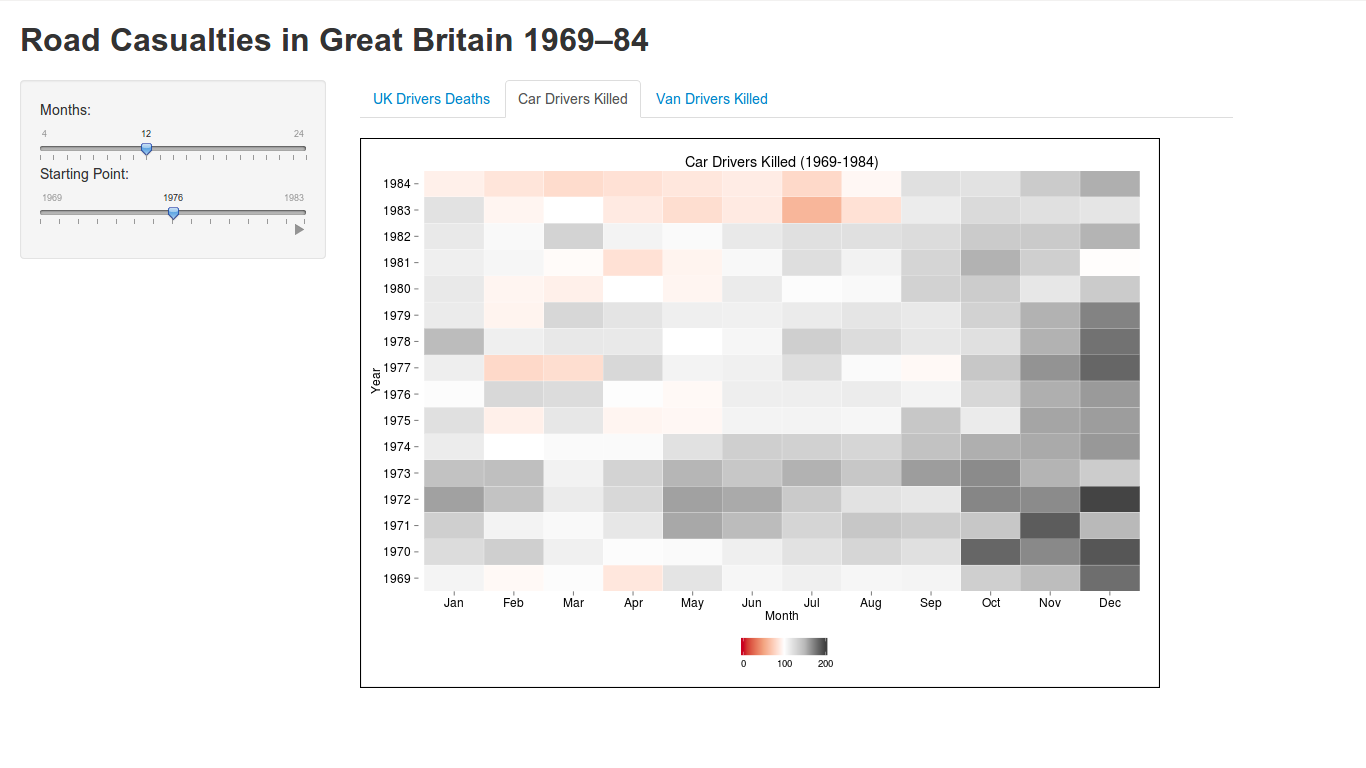
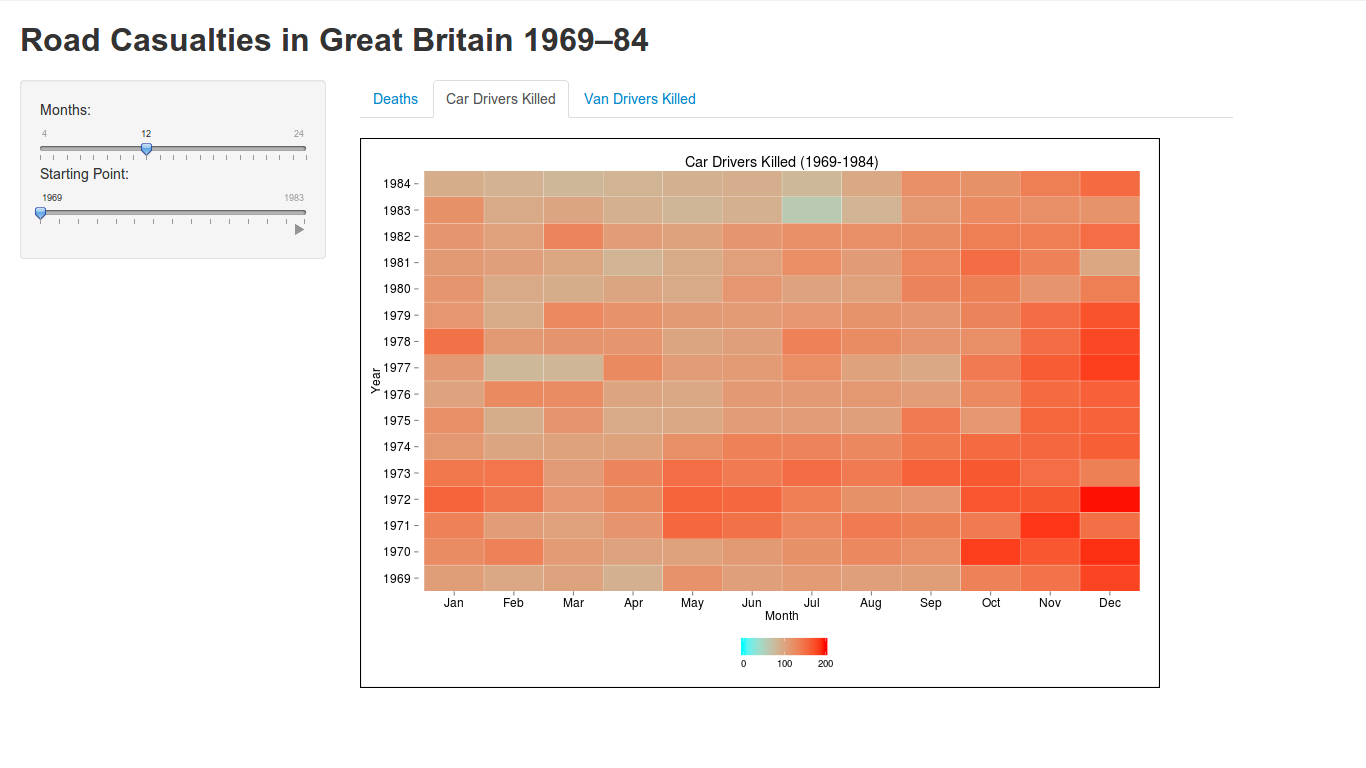
Final touches and a much better image for car drivers killed

diff --git a/homework5/README.md b/homework5/README.md
@@ -8,7 +8,6 @@ Homework [5]: Time Series Visualization
 ## Instructions ##
 The following packages must be installed prior to running this code:
 ```
-
 library(reshape) 
 library(scales) 
 library(ggplot2)
@@ -23,26 +22,27 @@ shiny::runGitHub('msan622', 'deekshachugh', subdir = 'homework5')
 ## Discussion ##
 
 ###Deaths###
-Here is the screenshot:
+
 ![IMAGE](Overview.png)
 
-The above plot shows the number of total driver deaths, front-seat passengers killed or seriously injured and rear-seat passengers killed or seriously injured. The plot shows the decline in number of deaths of front seat passengers after the law was introduced whereas the it has not much effect on back seat passengers.
+The above plot shows the number of total driver deaths, front-seat passengers killed or seriously injured, and rear-seat passengers killed or seriously injured. The plot shows the sharp decline in number of deaths of front seat passengers after the law was introduced in 1983; however there is no effect on the number of deaths of back seat passengers.
 
-The plot has two components. The upper part of the graph is the zoom in version of the overview plot below. The overview plot is a multiline plot showing the number of deaths. It also has an arrow which points to the time period when the seat belt law in UK was introduced. I changed the axes color to black and increased its size to increase readibility. The legend of the plot is moved on to the top of the plot to save space.  
-
+The plot has two components. The upper part of the graph is the zoomed in version of the overview plot under it. The overview plot is a multiline plot showing the number of deaths. It also has an arrow which points to the time period when the seat belt law in UK was introduced. I changed the axes color to black and increased its size to increase readibility. The legend of the plot is moved on to the top of the plot to save space.
+```
 Interactivity
-On the left side of the panel, you can play the starting point slider to show animated view. You could also select the amount of months you want a view in a particular given time.
+```
+On the left side of the panel, you can play the starting point slider to see animated view over all the years. You could also select the number of months you want to view at any time.
 
-###Car Drivers Killed###
-Here is the screenshot:
+###Car drivers killed###
+
 ![IMAGE](heatmap.png)
 
-The heatmap shows the car drivers killed in each of the years and months. A divergent color scheme is used to represent the number of deaths of car drivers. We can see a lot of reds after 1983 showing a decline in number of car drivers deaths.  I changed the axes color to black and increased its size to increase readibility. The legend of the plot is moved on to the bottom of the plot and its direction is changed to horizontal.
+The heatmap shows the number of car drivers killed in each of the years and months. Since red color is considered a sign of danger, a red color scheme is chosen to represent the number of deaths of car drivers. We can see a lot of light colored boxes after 1983 showing a decline in number of car drivers deaths. I changed the axes color to black and increased its size to increase readibility. The legend of the plot is moved on to the bottom of the plot and its direction is changed to horizontal.
 
-The plot also shows a lot dark grey in decemeber month representing high number of deaths. We can also see in the year 1977, during feb and march the number of deaths drastically declined. This plot helps in identification of unusual trends in the data.
+The plot also shows a lot of dark red in the month of December, indicating a high number of deaths. It also shows that in the year 1977, during the months of February and March, the number of deaths drastically declined. This plot helps in identification of unusual trends in the data.
 
-###Van Drivers Killed###
-Here is the screenshot:
+###Van drivers killed###
+
 ![IMAGE](starplot.png)
 
-The above plot shows the number of van drivers killed during all these years. I made a star plot because its easier to see the area between the star getting decreased in the latter years. If we make a line plot then the inference is difficult to make as its all over the place. I changed the axes color to black and increased its size to increase readibility. The legend of the plot is removed as it is redundant. The x axes title is also removed as its pretty obvious in the graph.
+The above plot shows the number of van drivers killed during the years 1969-1984 in UK. I made a star plot -- it makes it easier to observe the that the area of the star is decreasing in the latter years. I initially tried a line plot, but it is hard to infer the above information using that. I changed the axes color to black and increased its size to increase readibility. The legend of the plot is removed as it is redundant. The title of the x-axis is also removed as it is pretty obvious from the graph.
